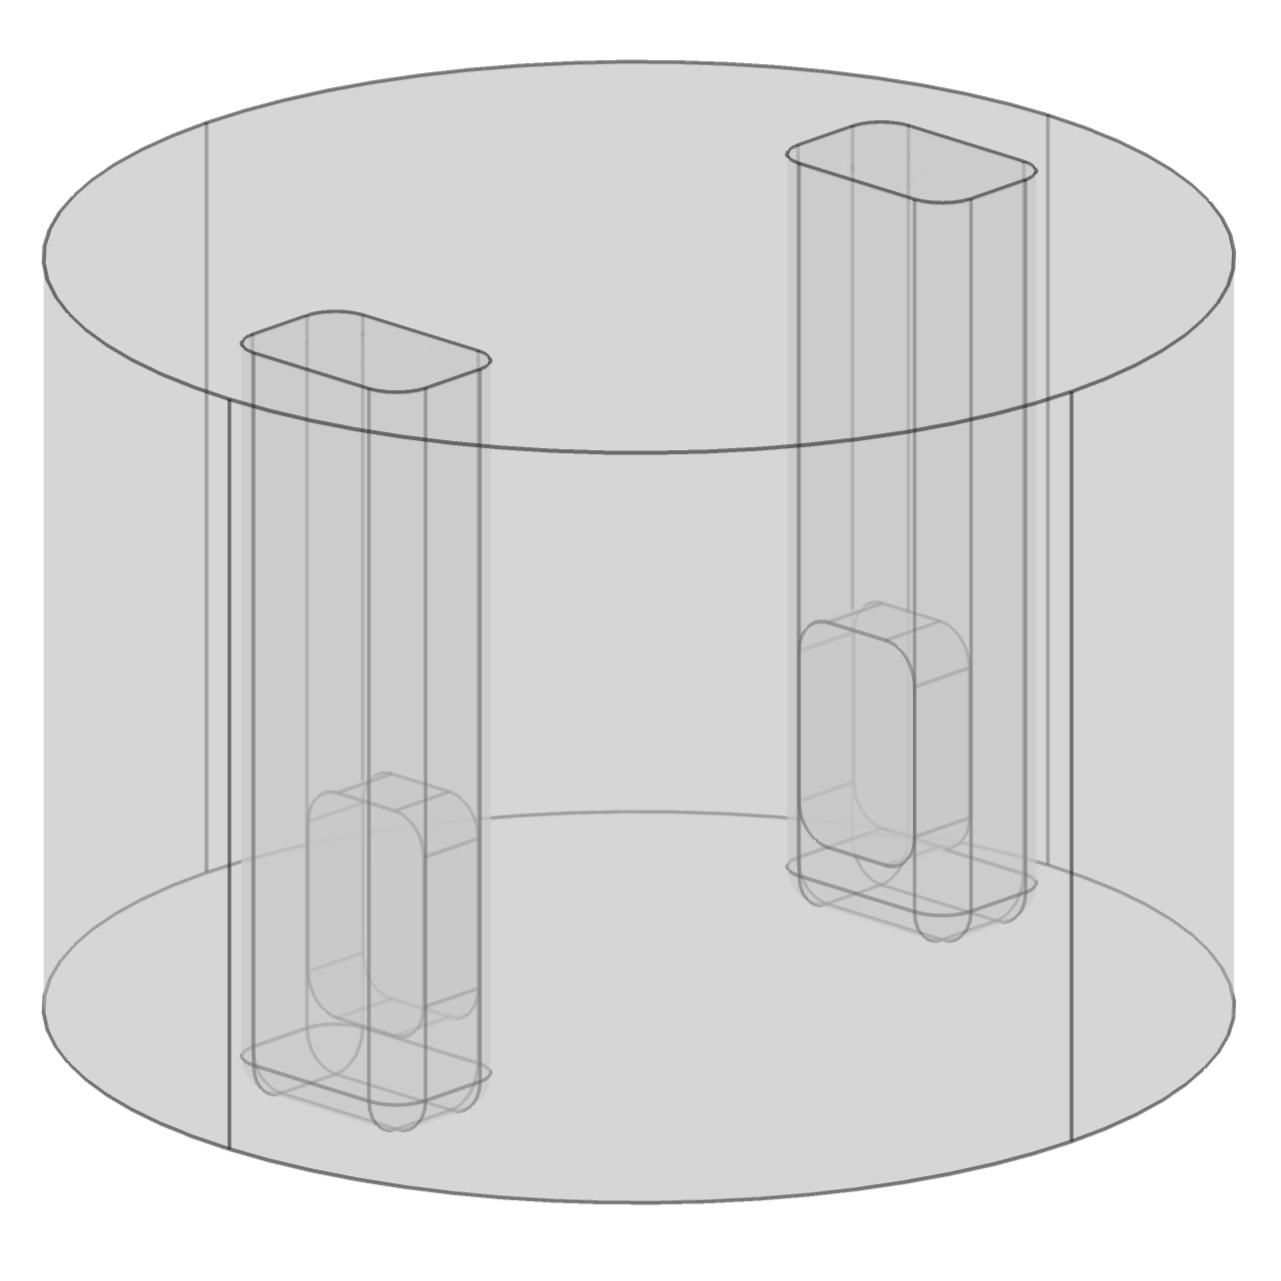
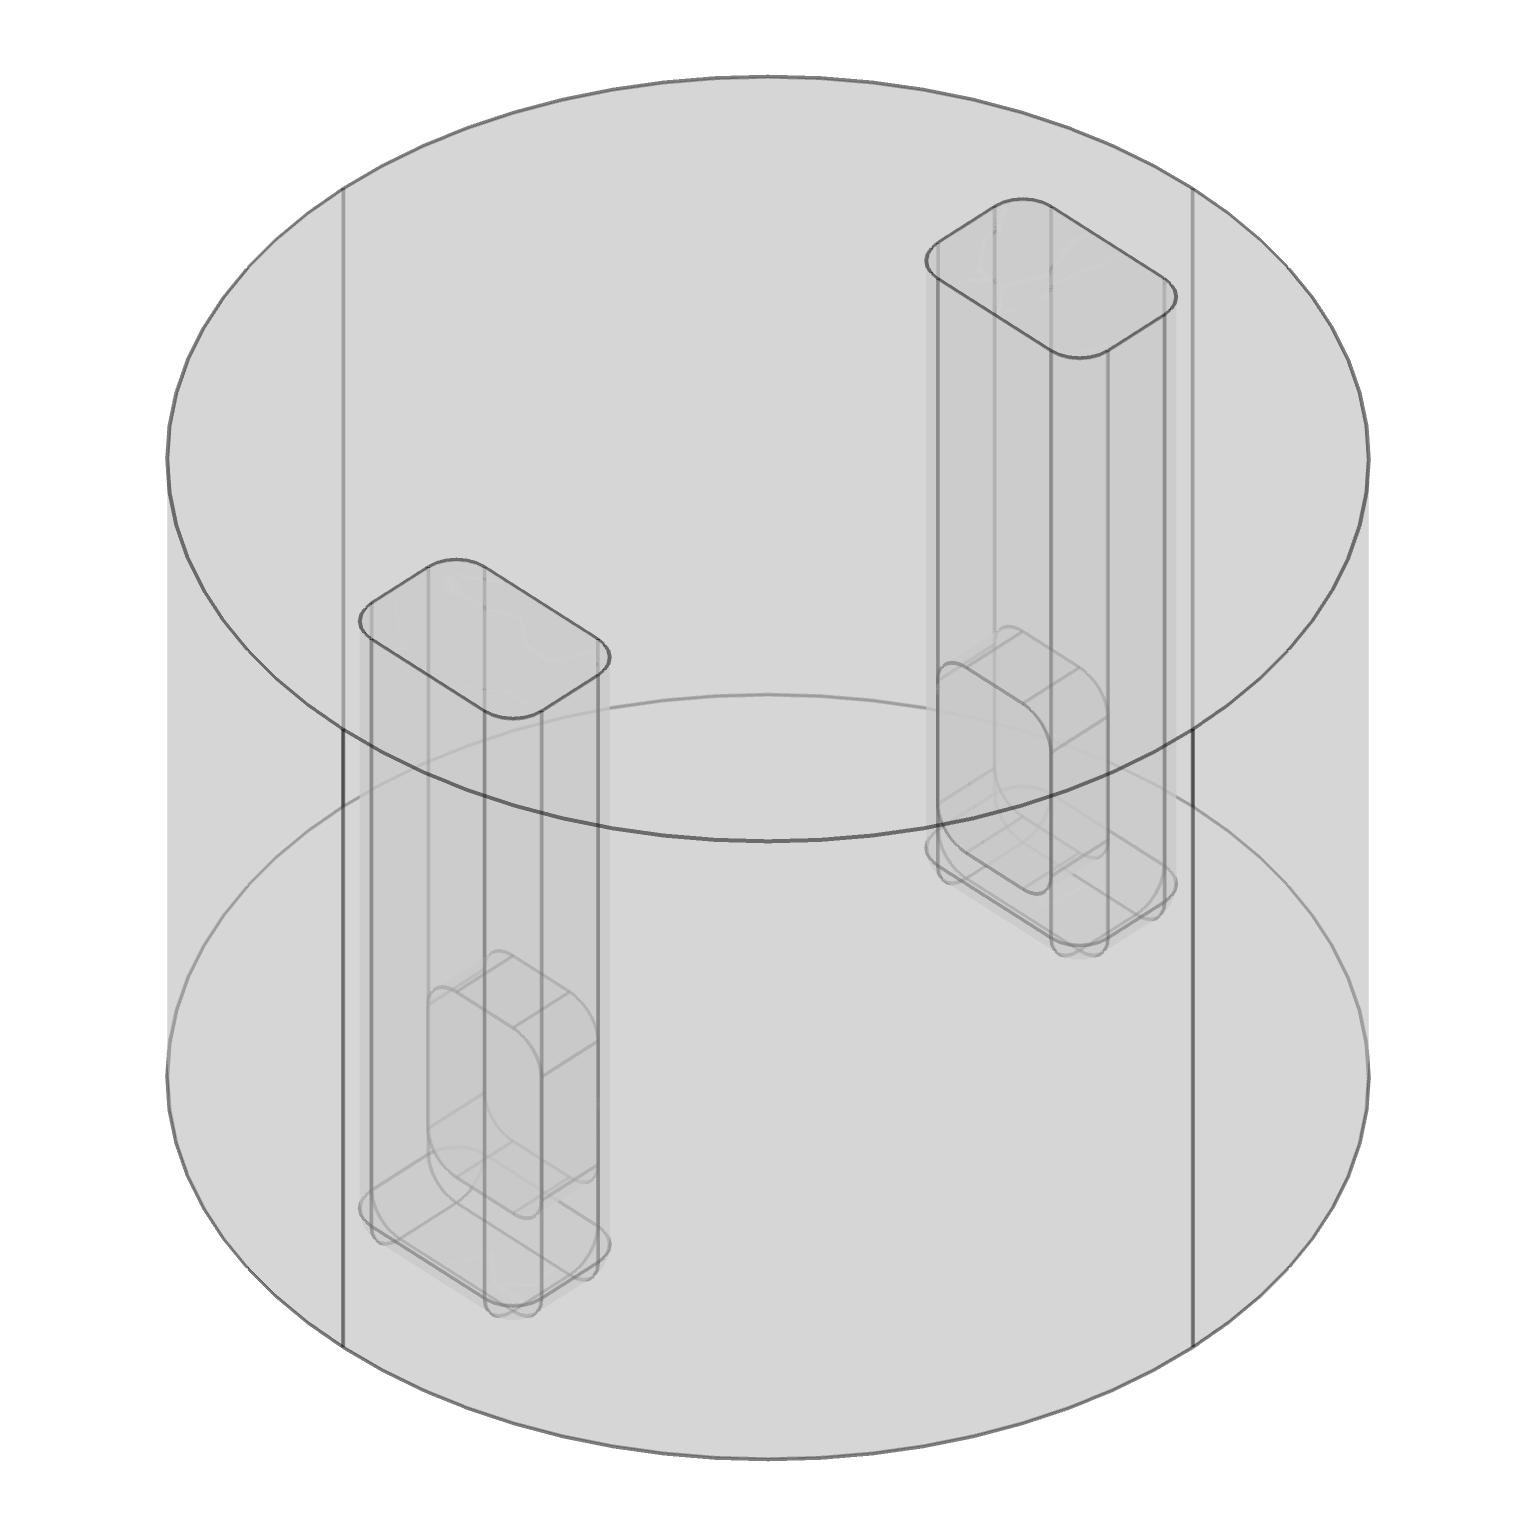
add dir structure and probe image

Changed region(s): [[0.0312, 0.0312, 0.968, 0.968]]

diff --git a/examples/bio_comsol/README.md b/examples/bio_comsol/README.md
@@ -8,6 +8,18 @@ The network receives input in the form of extracellular potentials defined by a 
 
 Uses the BioNet simulator (requires NEURON).
 
+## Directory structure
+| Directory/file            | Summary                                                                       |
+|:--------------------------|-------------------------------------------------------------------------------|
+| doc/                      | documentation and images                                                      |
+| network/                  | network files                                                                 |
+| bio_comsol.mph            | comsol file that contains the model geometry and setup (but no solutions)     |
+| build_network.py          | used to build the files in *network/*                                         |
+| config.comsol_<type>.json | configuration files                                                           |
+| plot_output.py            | used to generate raster plots and voltage traces from the simulations outputs |
+| run_bionet.py             | used to run a simulation                                                      |
+| waveform.py               | used to generate waveform.csv                                                 |
+
 
 ## Building:
 The network files have already been built and stored as SONATA files in the *network/* directory. The bmtk Builder
@@ -28,7 +40,7 @@ $ python run_bionet.py config.comsol_<type>.json
 Corresponding to the three approaches explained [here](doc/COMSOL.md), there are three example configurations.
 All configurations simulate the same stimulation setup, where two probes, with one electrode each, are inserted into a cylindrical piece of tissue. 
 Biphasic asymmetric pulses are sent from one electrode to the other, i.e. they have opposite polarity.  
-<img src="doc/geometry.png" alt="drawing" height="300" style="horizontal-align:middle;margin:0px 50px"/> <img src="doc/pulse.png" alt="drawing" height="300" style="horizontal-align:middle;margin:0px 50px"/> 
+<img src="doc/probe.png" alt="drawing" height="300"> <img src="doc/geometry.png" alt="drawing" height="300"> <img src="doc/pulse.png" alt="drawing" height="300" > 
 
 
 There are three configuration files:
